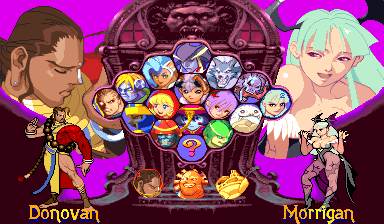
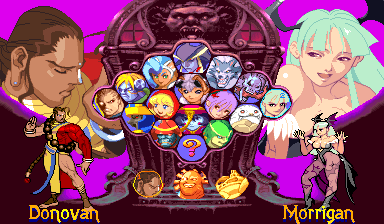
Vampire Savior Definitive: the cursor's ring centred on the three's faces
Claude-Session: https://claude.ai/code/session_018VhZJ5KBw4Fwfvd4H6ZC2e

diff --git a/games/vsav_definitive/src/choosing.cpp b/games/vsav_definitive/src/choosing.cpp
@@ -25,16 +25,17 @@ namespace {
     struct Place {
         uint8_t character;
         int16_t x;                 // its middle, from the random choice's
+        int16_t ringX;             // the ring's, from the random choice's (on the face as drawn)
         uint16_t tile, attributes; // the face
         int16_t faceX, faceY;      // ... its object, from the place's middle
         uint8_t theirPalette;
     };
     constexpr Place kPlaces[] = {
-        {kDonovan, -44, 0xB10B, 0x1216, -0x12, -0x11, 0x05},
-        {kPyron, 0, 0xB0F5, 0x1217, -0x18, -0x11, 0x11},
-        {kPhobos, 44, 0xB108, 0x1219, -0x20, -0x10, 0x13},
+        {kDonovan, -44, -44, 0xB10B, 0x1216, -0x12, -0x11, 0x05},
+        {kPyron, 0, -1, 0xB0F5, 0x1217, -0x18, -0x11, 0x11},
+        {kPhobos, 44, 40, 0xB108, 0x1219, -0x20, -0x10, 0x13},
     };
-    constexpr int kBelow = 34;
+    constexpr int kBelow = 34, kRingBelow = 36;
     int PlaceIndex(uint8_t place) {
         for (int i = 0; i < 3; i++) {
             if (kPlaces[i].character == place) {
@@ -97,8 +98,8 @@ namespace {
         }
         const uint8_t *random = ProgramOpcodes(kRingPlaces + kRandom * 4);
         const uint32_t me = c.a[6] & 0xFFFFFF;
-        SetRam16(me + 0x10, static_cast<uint16_t>(((random[0] << 8) | random[1]) + kPlaces[i].x));
-        SetRam16(me + 0x14, static_cast<uint16_t>(((random[2] << 8) | random[3]) - kBelow));
+        SetRam16(me + 0x10, static_cast<uint16_t>(((random[0] << 8) | random[1]) + kPlaces[i].ringX));
+        SetRam16(me + 0x14, static_cast<uint16_t>(((random[2] << 8) | random[3]) - kRingBelow));
         c.cycles += 40;
         c.pc = c.Pop32();
         return true;
